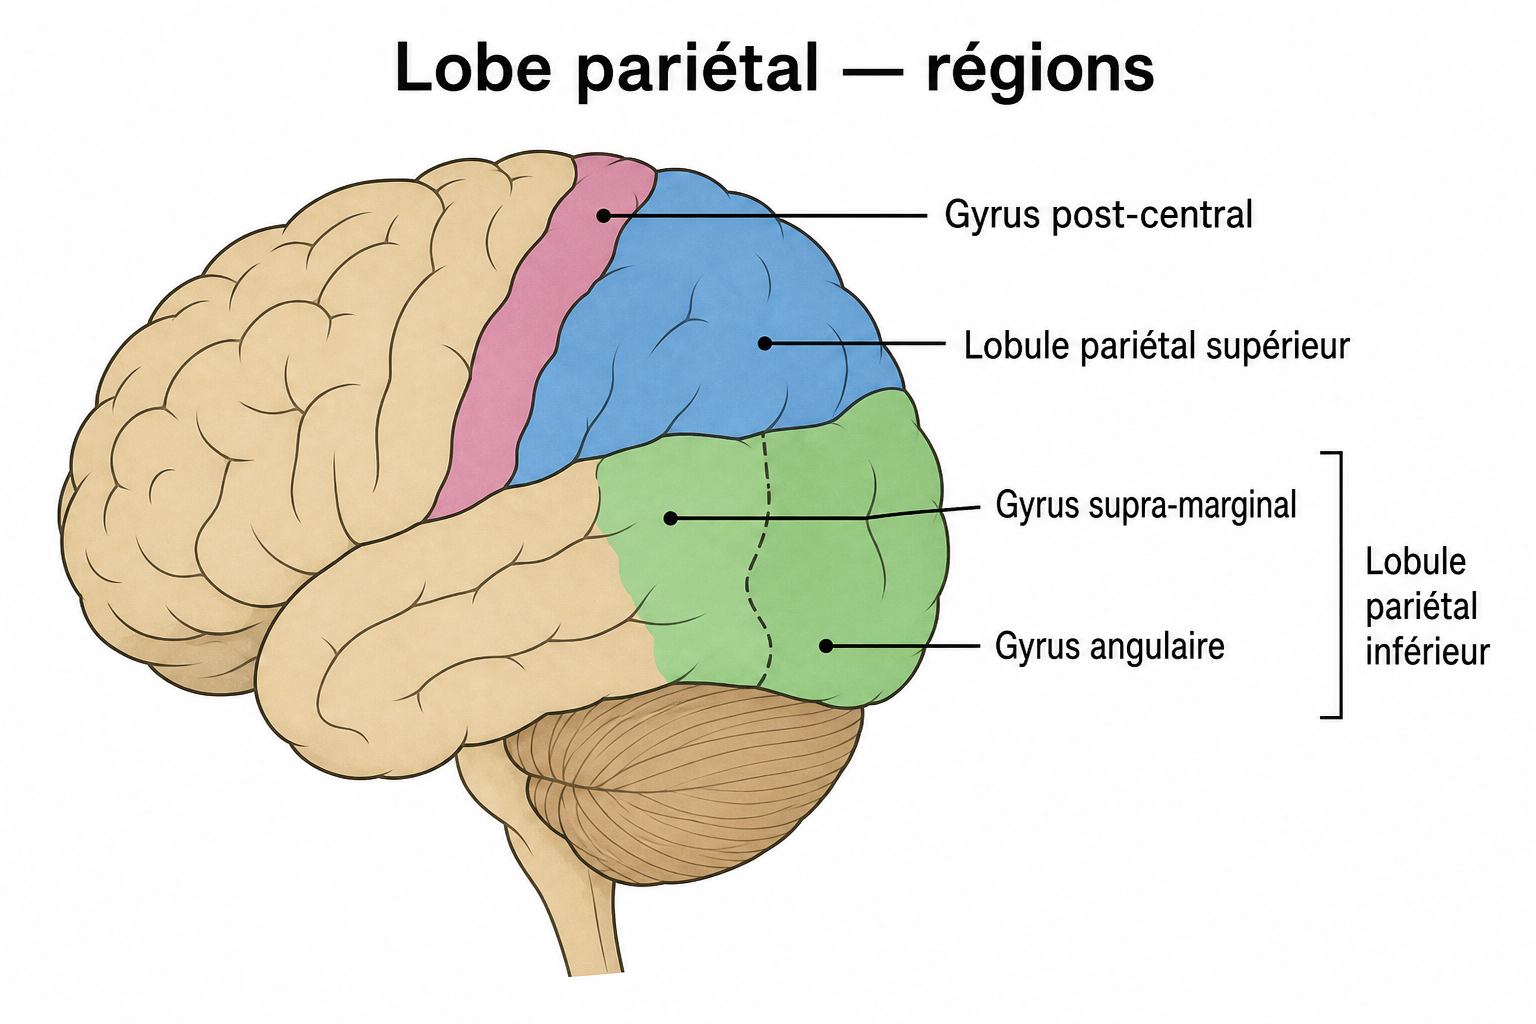
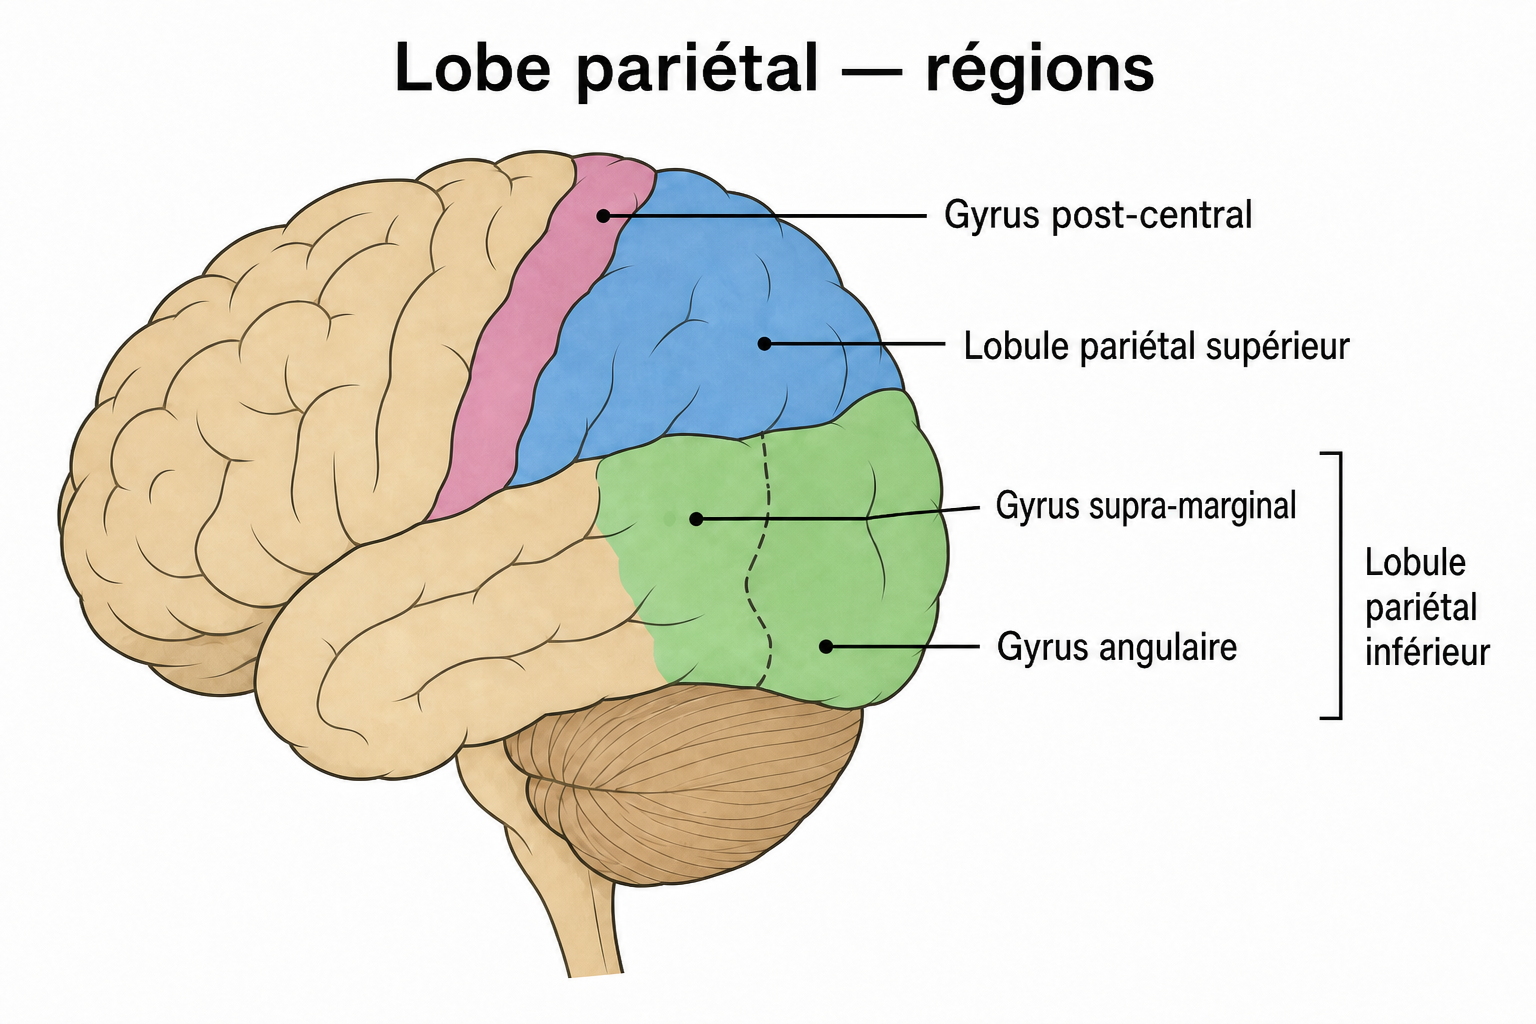
Swap supra-marginal and angular gyri on ch02 parietal regions schema.

diff --git a/data/flash/ch02.js b/data/flash/ch02.js
@@ -98,7 +98,7 @@
     { id: "FC-ANAT-02-S17", chapter: "02", priority: "P1", kind: "schema", front: "Schéma — Face médiale", back: "Face médiale", frontImg: "matiere/anatomie/img/ch02/blank/22_face_mediale.png?v=fc2c", backImg: "matiere/anatomie/img/ch02/22_face_mediale.png?v=fc2c" },
     { id: "FC-ANAT-02-S18", chapter: "02", priority: "P1", kind: "schema", front: "Schéma — Face inférieure", back: "Face inférieure", frontImg: "matiere/anatomie/img/ch02/blank/23_face_inferieure.png?v=fc2d", backImg: "matiere/anatomie/img/ch02/23_face_inferieure.png?v=fc2d" },
     { id: "FC-ANAT-02-S19", chapter: "02", priority: "P1", kind: "schema", front: "Schéma — Gyrus frontaux", back: "Gyrus frontaux", frontImg: "matiere/anatomie/img/ch02/blank/26_frontal_gyrus.png", backImg: "matiere/anatomie/img/ch02/26_frontal_gyrus.png" },
-    { id: "FC-ANAT-02-S20", chapter: "02", priority: "P1", kind: "schema", front: "Schéma — Régions pariétales", back: "Régions pariétales", frontImg: "matiere/anatomie/img/ch02/blank/28_parietal_regions.png?v=fc2", backImg: "matiere/anatomie/img/ch02/28_parietal_regions.png?v=fc2" },
+    { id: "FC-ANAT-02-S20", chapter: "02", priority: "P1", kind: "schema", front: "Schéma — Régions pariétales", back: "Régions pariétales", frontImg: "matiere/anatomie/img/ch02/blank/28_parietal_regions.png?v=fc2e", backImg: "matiere/anatomie/img/ch02/28_parietal_regions.png?v=fc2e" },
     { id: "FC-ANAT-02-S21", chapter: "02", priority: "P1", kind: "schema", front: "Schéma — Heschl et Wernicke", back: "Heschl et Wernicke", frontImg: "matiere/anatomie/img/ch02/blank/30_heschl_wernicke.png?v=fc2", backImg: "matiere/anatomie/img/ch02/30_heschl_wernicke.png?v=fc2" },
     { id: "FC-ANAT-02-S22", chapter: "02", priority: "P1", kind: "schema", front: "Schéma — Lobe occipital", back: "Lobe occipital", frontImg: "matiere/anatomie/img/ch02/blank/31_occipital.png?v=fc2", backImg: "matiere/anatomie/img/ch02/31_occipital.png?v=fc2" },
     { id: "FC-ANAT-02-S23", chapter: "02", priority: "P1", kind: "schema", front: "Schéma — Système limbique", back: "Système limbique", frontImg: "matiere/anatomie/img/ch02/blank/32_limbique.png", backImg: "matiere/anatomie/img/ch02/32_limbique.png" },

diff --git a/matiere/anatomie/ch02.html b/matiere/anatomie/ch02.html
@@ -421,7 +421,7 @@
       </div>
 
       <figure class="schema">
-        <img src="./img/ch02/28_parietal_regions.png?v=fc2" alt="Régions pariétales" />
+        <img src="./img/ch02/28_parietal_regions.png?v=fc2e" alt="Régions pariétales" />
       </figure>
       <div class="label-quiz" data-labels='[["supra marginal","supra-marginal"],["angulaire"],["sillon post-central","post-central","post central"],["sillon intra-parietal","intra-parietal","intra parietal"],["pre-cuneus","precuneus","pre cuneus"],["gyrus cingulaire anterieur","cingulaire anterieur"],["gyrus cingulaire posterieur","cingulaire posterieur"]]'>
         <div class="course-cloze">
